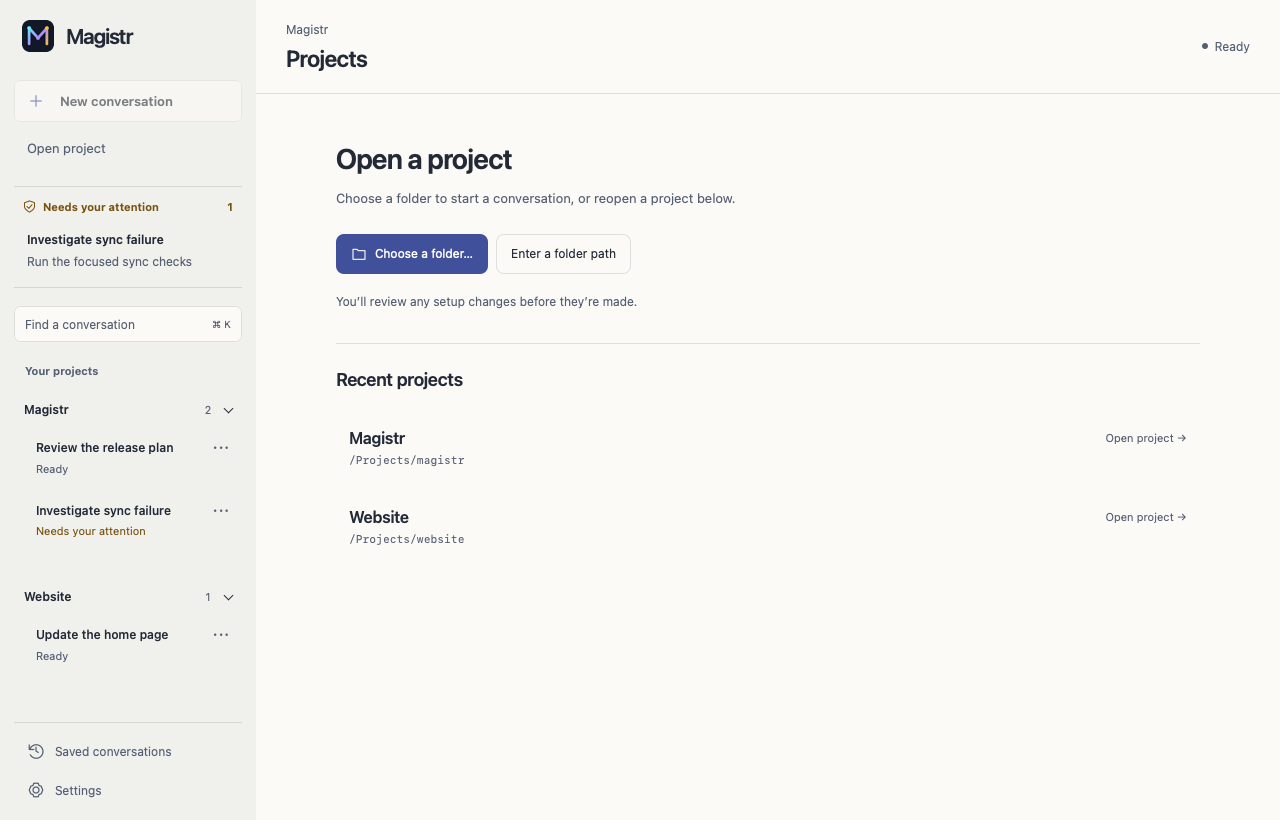
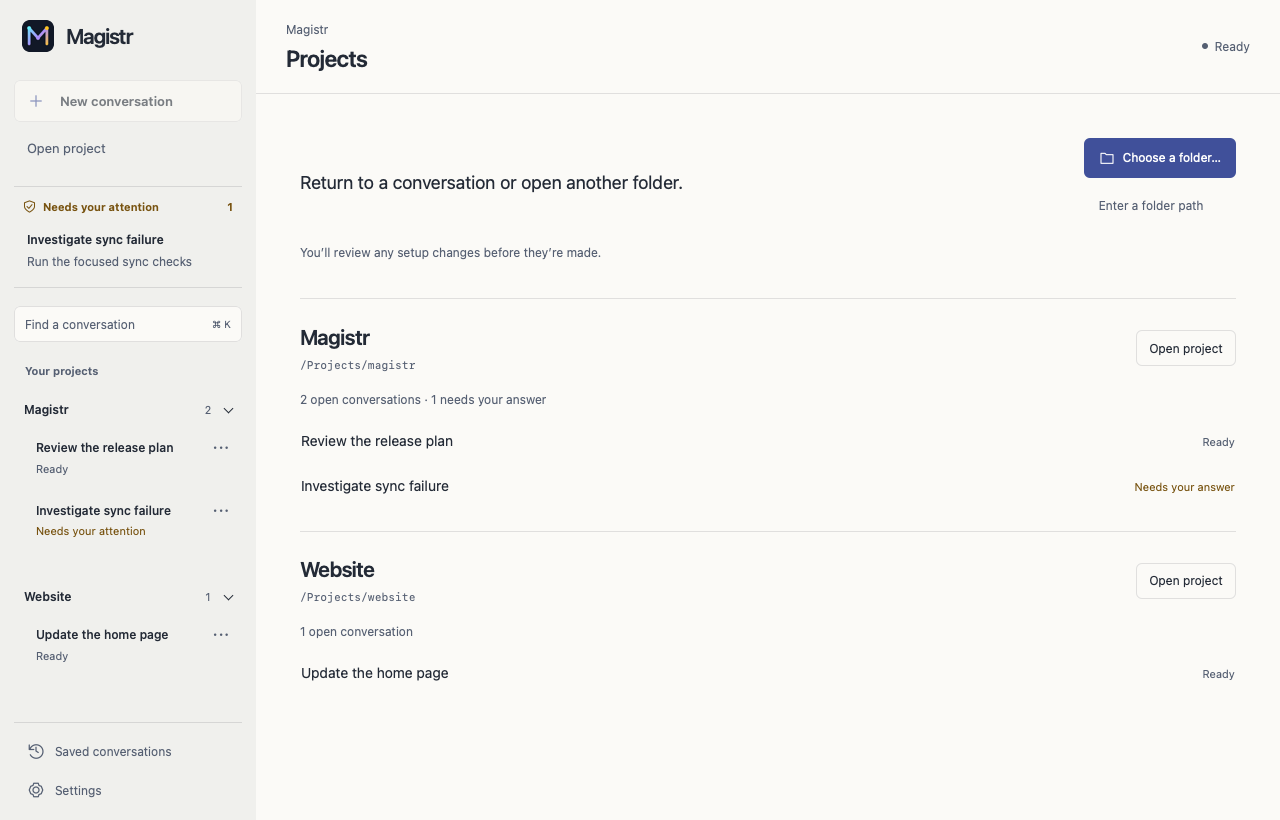
feat(desktop): present a live project directory

diff --git a/crates/magistr-desktop/ui/style.css b/crates/magistr-desktop/ui/style.css
@@ -248,28 +248,31 @@ textarea::placeholder,input::placeholder{color:var(--muted);opacity:1}
 .request-actions button:hover{background:var(--panel)}.request-actions button:disabled{color:var(--muted)}
 .session-actions{display:grid;gap:8px}.session-actions button{font-size:12px}
 .error{padding:10px 14px;color:var(--danger);background:var(--panel);border-bottom:1px solid var(--separator);overflow-wrap:anywhere;font-size:13px}
-.welcome{margin:0 auto;width:min(100%,960px);padding:48px;overflow:auto}
+.welcome{margin:0 auto;width:min(100%,1040px);padding:44px;overflow:auto}
+.welcome-intro{display:grid;grid-template-columns:minmax(0,1fr) auto;gap:16px 32px;padding-bottom:36px}
 
-.welcome-intro{padding-bottom:32px}
-.recent-heading{display:flex;align-items:center;justify-content:space-between;gap:20px;padding-top:22px;border-top:1px solid var(--separator)}
-.recent-heading h3{font-size:18px;font-weight:600;letter-spacing:-.02em;margin:0}
+.welcome p{color:var(--muted);font-size:13px;line-height:1.7;margin:0}
+.welcome .welcome-description{font-size:18px;line-height:1.5;color:var(--text);max-width:40ch;align-self:center}
+.welcome .welcome-hint{grid-column:1/-1;font-size:12px}
+.welcome-actions{display:flex;flex-direction:column;gap:8px;align-self:start}
+.welcome-actions button{font-size:12px;min-height:40px;padding:10px 14px}
+.welcome-actions button:first-child{background:var(--button);color:var(--button-text);border-color:var(--button)}
+.welcome-actions button+button{background:transparent;border-color:transparent;color:var(--muted)}
 
-.welcome h2{font-size:28px;font-weight:600;line-height:1.2;color:var(--text);letter-spacing:-.025em;text-transform:none;margin-bottom:12px}
+.directory-project{border-top:1px solid var(--separator);padding:24px 0}
+.directory-project-heading{display:flex;justify-content:space-between;align-items:center;gap:20px}
+.directory-project-title{min-width:0}.directory-project-title h2{text-transform:none;color:var(--text);font-size:21px;font-weight:600;line-height:1.3;letter-spacing:-.025em;margin:0 0 6px}
+.directory-project-title p{font:11px/1.5 var(--font-code);overflow-wrap:anywhere}
+.directory-open{flex-shrink:0;font-size:12px;padding:8px 12px;border-color:var(--separator);background:transparent}
+.welcome .directory-project-facts{font-size:12px;margin:16px 0 10px}
+.directory-conversations{display:grid;gap:4px}
+.directory-conversation{display:flex;align-items:baseline;justify-content:space-between;gap:24px;border-color:transparent;border-radius:4px;background:transparent;padding:10px 12px;margin-inline:-12px;font-size:14px;line-height:1.4}
+.directory-conversation:hover{background:var(--panel)}
+.directory-conversation span{overflow-wrap:anywhere}.directory-conversation small{font-size:11px;color:var(--muted);white-space:nowrap}
+.directory-conversation[data-attention=true] small{color:var(--warning)}
+@media(max-width:1000px){.welcome{padding:28px}.welcome-intro{grid-template-columns:1fr;gap:16px;padding-bottom:28px}.welcome-actions{flex-direction:row;flex-wrap:wrap}}
+@media(max-width:600px){.directory-project-heading{align-items:flex-start;flex-wrap:wrap;gap:12px}.directory-conversation{flex-wrap:wrap;gap:6px}}
 
-.welcome p{color:var(--muted);font-size:13px;line-height:1.7}
-.welcome .welcome-hint{font-size:12px;max-width:360px;line-height:1.6}
-#welcome-projects{display:grid;grid-template-columns:1fr;gap:4px;margin-top:16px}
-
-#welcome-projects button{display:grid;grid-template-columns:minmax(0,1fr) auto;gap:4px 16px;padding:16px 12px;border-color:transparent;border-radius:6px;background:transparent;text-align:left}
-
-#welcome-projects strong{font-size:16px;font-weight:600;letter-spacing:-.015em;overflow-wrap:anywhere}
-#welcome-projects span{grid-row:2;grid-column:1/-1;color:var(--muted);font:11px var(--font-code);overflow:hidden;text-overflow:ellipsis;white-space:nowrap}
-#welcome-projects small{grid-column:2;grid-row:1;color:var(--muted);font-size:11px;align-self:center}
-#welcome-projects button:hover{background:var(--panel)}
-@media(max-width:1000px){#welcome-projects small{grid-row:3;grid-column:1;margin-top:6px}}
-@media(max-width:1000px){.welcome{padding:24px}.welcome h2{font-size:28px;font-weight:600;line-height:1.2;color:var(--text);letter-spacing:-.025em;text-transform:none;margin-bottom:12px}}
-@media(max-width:680px){#welcome-projects{display:grid;grid-template-columns:1fr;gap:4px;margin-top:16px}.welcome h2{font-size:28px;font-weight:600;line-height:1.2;color:var(--text);letter-spacing:-.025em;text-transform:none;margin-bottom:12px}}
-.welcome-actions{display:flex;flex-wrap:wrap;gap:8px;margin:24px 0 18px}.welcome-actions button{font-size:12px;min-height:40px;padding:10px 14px;border-radius:8px}.welcome-actions button:first-child{background:var(--button);color:var(--button-text);border-color:var(--button)}.welcome-actions button+button{background:transparent;border-color:var(--separator)}
 dialog{--dialog-gutter:28px;max-height:calc(100dvh - 48px);overflow:hidden;border:1px solid var(--separator);border-radius:12px;background:var(--base);color:var(--text);width:700px;max-width:calc(100vw - 32px);padding:0;box-shadow:var(--shadow)}
 dialog::backdrop{background:color-mix(in srgb,var(--canvas) 65%,transparent)}dialog h2{font-size:27px;line-height:1.2;font-weight:620;color:var(--text);text-transform:none;letter-spacing:-.035em;margin-bottom:10px}
 dialog p{color:var(--muted);margin-bottom:18px;line-height:1.65}dialog label{display:block;margin-bottom:8px;font-size:12px;font-weight:550}dialog input,dialog select{width:100%;min-height:40px;background:var(--panel);border-radius:8px;padding:9px 12px}dialog input:focus,dialog select:focus{background:var(--base)}dialog input[type=checkbox],dialog input[type=radio]{min-height:16px}dialog button{font-size:12px}

diff --git a/crates/magistr-desktop/ui/index.html b/crates/magistr-desktop/ui/index.html
@@ -31,9 +31,11 @@
   </nav>
   <p id="error" class="error" role="alert" hidden></p>
   <section id="welcome" class="welcome" aria-label="Open a project">
-    <div class="welcome-intro"><h2>Open a project</h2><p>Choose a folder to start a conversation, or reopen a project below.</p>
+    <div class="welcome-intro"><p class="welcome-description">Return to a conversation or open another folder.</p>
     <div class="welcome-actions"><button id="welcome-open" data-leading-icon="folder">Choose a folder…</button><button id="welcome-path">Enter a folder path</button></div>
-    <p class="welcome-hint">You’ll review any setup changes before they’re made.</p></div><div class="recent-heading"><h3>Recent projects</h3></div><div id="welcome-projects" aria-label="Recent projects"></div>
+    <p class="welcome-hint">You’ll review any setup changes before they’re made.</p></div>
+    <div id="welcome-projects" aria-label="Your projects"></div>
+    <p id="directory-empty" hidden>No projects yet. Choose a folder to get started.</p>
     <p id="welcome-note" role="status" hidden></p>
   </section>
   <div id="workspace" class="workspace" hidden>

diff --git a/docs/reference/cockpit-modules.md b/docs/reference/cockpit-modules.md
@@ -149,7 +149,7 @@ desktop workspace. Companion Rust tests live beside their owners.
 - `crates/magistr-desktop/ui/keyboard.mjs` — platform shortcut hints, modal/IME guards and logical region navigation.
 - `crates/magistr-desktop/ui/switcher.mjs` — searchable current-catalog conversations and guarded selection/focus recovery.
 - `crates/magistr-desktop/tests/browser/keyboard.spec.mjs` — background shortcut, region, modal, IME guard and refused-selection journeys.
-- `crates/magistr-desktop/ui/navigation.mjs` — grouped project/conversation presentation and addressed row actions.
+- `crates/magistr-desktop/ui/navigation.mjs` — shared canonical project grouping, live opening directory, rail and addressed conversation actions.
 - `crates/magistr-desktop/tests/navigation.mjs` — project identity and linked-copy grouping.
 - `crates/magistr-desktop/tests/browser/navigation.spec.mjs` — background navigation, contextual actions and Settings recovery.
 - `crates/magistr-desktop/ui/layout.mjs` — responsive conversation/details visibility and focus; no session lifetime ownership.
